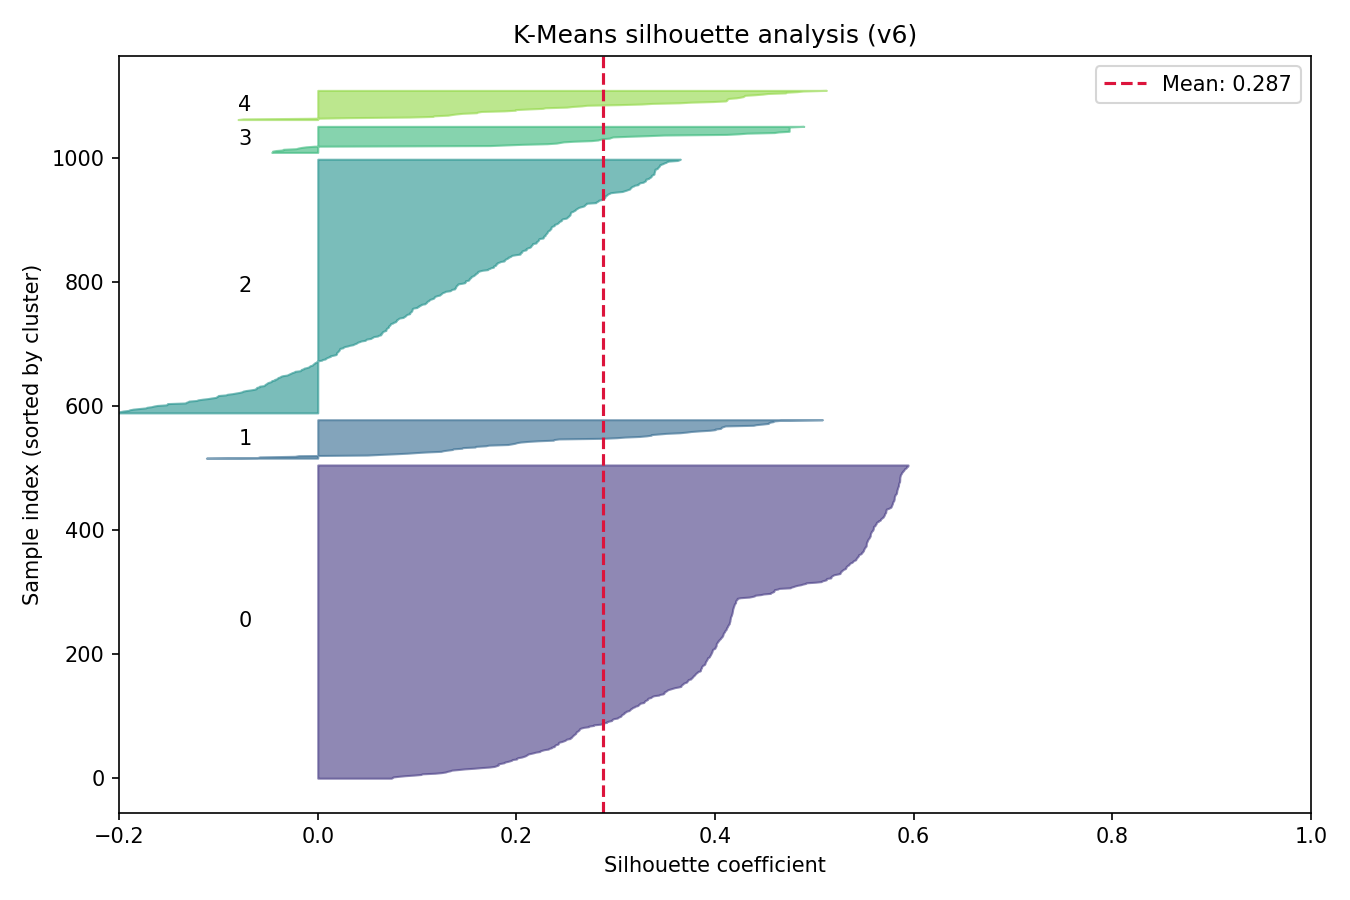
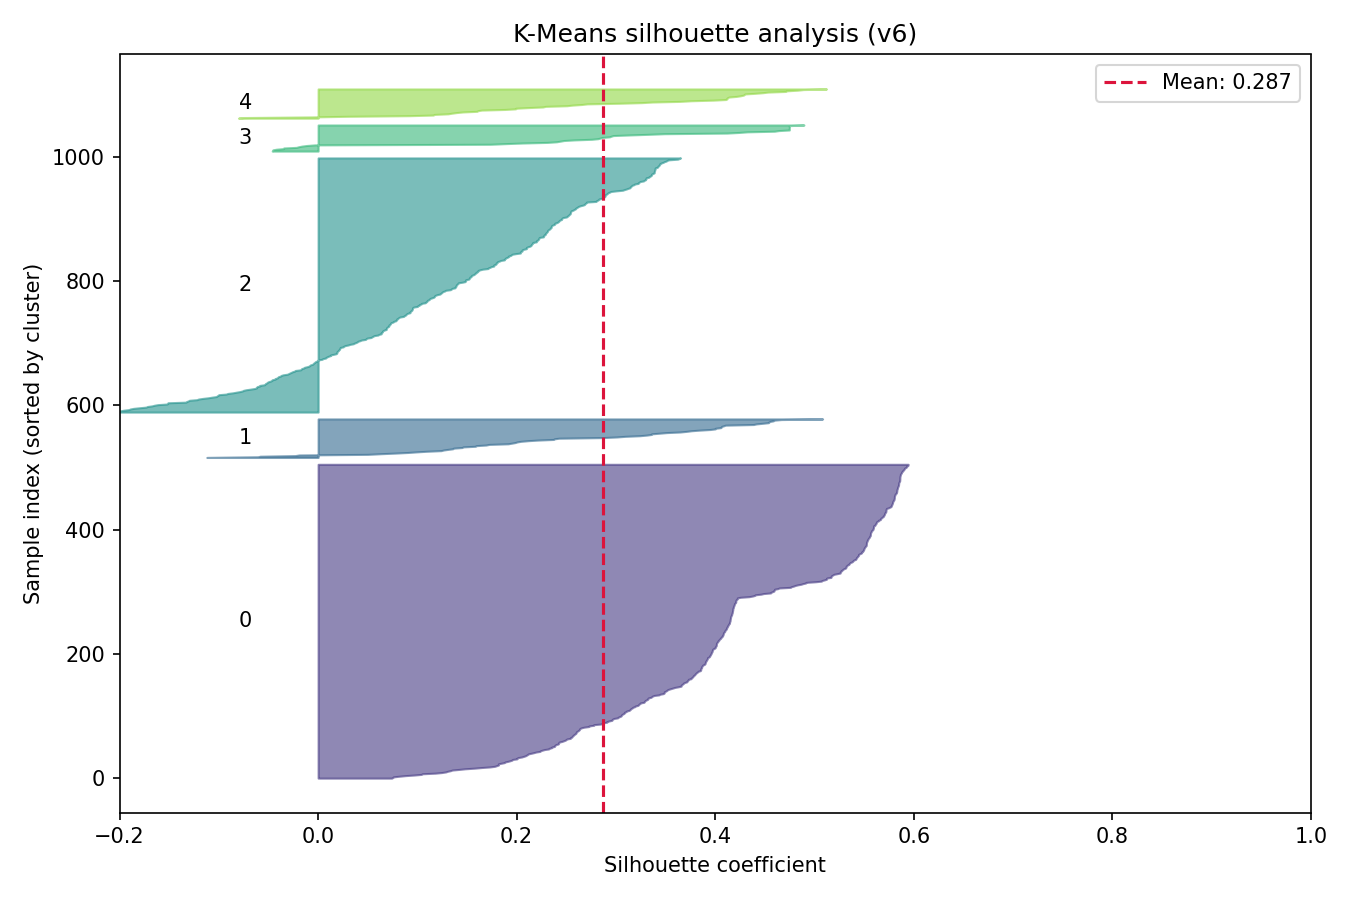
Running clustring tests 4 times

diff --git a/og_main.md b/og_main.md
@@ -28,7 +28,6 @@ KMEANS_CLUSTERS = 5
 DBSCAN_EPS = 0.55
 DBSCAN_MIN_SAMPLES = 10
 NOISE_INFO_THRESHOLD = 0.2
-N_RUNS = 4
 
 # Training features only (metadata excluded from StandardScaler).
 PROFILE_FEATURES = [
@@ -140,6 +139,46 @@ def _plot_feature_correlation(df: pd.DataFrame, cols: list[str], out_path: Path)
     plt.tight_layout()
     fig.savefig(out_path, dpi=150)
     logger.info("Saved correlation heatmap to %s", out_path)
+    if plt.get_backend().lower() != "agg":
+        plt.show()
+    else:
+        plt.close(fig)
+
+
+def _plot_kmeans_silhouette(X_scaled: pd.DataFrame, labels: np.ndarray, out_path: Path) -> None:
+    """Silhouette plot for K-Means (cluster stability visualization)."""
+    Xv = X_scaled.to_numpy()
+    sil_vals = silhouette_samples(Xv, labels)
+    n_clusters = len(np.unique(labels))
+    fig, ax = plt.subplots(figsize=(9, 6))
+    y_lower = 0
+    colors = sns.color_palette("viridis", n_clusters)
+    for i in range(n_clusters):
+        cluster_sil = sil_vals[labels == i]
+        cluster_sil.sort()
+        n_i = len(cluster_sil)
+        y_upper = y_lower + n_i
+        color = colors[i]
+        ax.fill_betweenx(
+            np.arange(y_lower, y_upper),
+            0,
+            cluster_sil,
+            facecolor=color,
+            edgecolor=color,
+            alpha=PLOT_ALPHA,
+        )
+        ax.text(-0.08, y_lower + 0.5 * n_i, str(i), va="center")
+        y_lower = y_upper + 10
+    mean_sil = float(silhouette_score(Xv, labels))
+    ax.axvline(x=mean_sil, color="crimson", linestyle="--", linewidth=1.5, label=f"Mean: {mean_sil:.3f}")
+    ax.set_xlabel("Silhouette coefficient")
+    ax.set_ylabel("Sample index (sorted by cluster)")
+    ax.set_title("K-Means silhouette analysis (v6)")
+    ax.set_xlim(-0.2, 1.0)
+    ax.legend(loc="upper right")
+    plt.tight_layout()
+    fig.savefig(out_path, dpi=150)
+    logger.info("Saved silhouette plot to %s", out_path)
     if plt.get_backend().lower() != "agg":
         plt.show()
     else:
@@ -288,117 +327,82 @@ def main() -> None:
 
     _plot_feature_correlation(student_df, PROFILE_FEATURES, plot_corr)
 
-    for run_idx in range(1, N_RUNS + 1):
-        logger.info("--- Run %d/%d ---", run_idx, N_RUNS)
+    logger.info("--- K-Means (k=%s) ---", KMEANS_CLUSTERS)
+    km = KMeans(n_clusters=KMEANS_CLUSTERS, random_state=42, n_init=10)
+    labels_km = km.fit_predict(X_scaled)
+    _log_kmeans_cluster_centers(km, scaler, FEATURES)
 
-        logger.info("--- K-Means (k=%s) ---", KMEANS_CLUSTERS)
-        km = KMeans(n_clusters=KMEANS_CLUSTERS, random_state=42, n_init=10)
-        labels_km = km.fit_predict(X_scaled)
-        _log_kmeans_cluster_centers(km, scaler, FEATURES)
+    _plot_kmeans_silhouette(X_scaled, labels_km, plot_sil)
 
-        km_sil, km_db = _metrics_scaled(
-            X_scaled,
-            labels_km,
-            f"K-Means (run {run_idx})",
-            exclude_noise=False,
-        )
+    km_sil, km_db = _metrics_scaled(X_scaled, labels_km, "K-Means", exclude_noise=False)
 
-        logger.info("--- DBSCAN (eps=%s, min_samples=%s) ---", DBSCAN_EPS, DBSCAN_MIN_SAMPLES)
-        dbs = DBSCAN(eps=DBSCAN_EPS, min_samples=DBSCAN_MIN_SAMPLES)
-        labels_db = dbs.fit_predict(X_scaled)
-        n_noise = int((labels_db == -1).sum())
-        noise_share = n_noise / len(labels_db)
+    logger.info("--- DBSCAN (eps=%s, min_samples=%s) ---", DBSCAN_EPS, DBSCAN_MIN_SAMPLES)
+    dbs = DBSCAN(eps=DBSCAN_EPS, min_samples=DBSCAN_MIN_SAMPLES)
+    labels_db = dbs.fit_predict(X_scaled)
+    n_noise = int((labels_db == -1).sum())
+    noise_share = n_noise / len(labels_db)
+    logger.info(
+        "DBSCAN: %d / %d points labeled noise (-1) (%.1f%%)",
+        n_noise,
+        len(labels_db),
+        100.0 * noise_share,
+    )
+    if noise_share >= NOISE_INFO_THRESHOLD:
         logger.info(
-            "DBSCAN: %d / %d points labeled noise (-1) (%.1f%%)",
-            n_noise,
-            len(labels_db),
-            100.0 * noise_share,
+            "DBSCAN: many points are noise — common for a first pass on scaled student-level data; "
+            "try tuning eps or min_samples if you want denser clusters."
         )
-        if noise_share >= NOISE_INFO_THRESHOLD:
-            logger.info(
-                "DBSCAN: many points are noise — common for a first pass on scaled student-level data; "
-                "try tuning eps or min_samples if you want denser clusters."
-            )
-        if len(np.unique(labels_db)) < 2 or (labels_db == -1).all():
-            logger.info("DBSCAN: skipped Silhouette / Davies–Bouldin (degenerate clustering)")
-            db_sil, db_db = None, None
-        else:
-            db_sil, db_db = _metrics_scaled(
-                X_scaled,
-                labels_db,
-                f"DBSCAN (run {run_idx})",
-                exclude_noise=True,
-            )
+    if len(np.unique(labels_db)) < 2 or (labels_db == -1).all():
+        logger.info("DBSCAN: skipped Silhouette / Davies–Bouldin (degenerate clustering)")
+        db_sil, db_db = None, None
+    else:
+        db_sil, db_db = _metrics_scaled(X_scaled, labels_db, "DBSCAN", exclude_noise=True)
 
-        run_metrics_path = metrics_dir / f"model_comparison_v6_run{run_idx}.txt"
-        _write_metrics_file(run_metrics_path, km_sil, km_db, db_sil, db_db)
-        if run_idx == N_RUNS:
-            _write_metrics_file(path_metrics, km_sil, km_db, db_sil, db_db)
+    _write_metrics_file(path_metrics, km_sil, km_db, db_sil, db_db)
 
-        _write_raw_data_summary_v6(
-            path_raw_summary,
-            student_df,
-            labels_km,
-            labels_db,
-            km_sil,
-            km_db,
-            db_sil,
-            db_db,
+    _write_raw_data_summary_v6(
+        path_raw_summary,
+        student_df,
+        labels_km,
+        labels_db,
+        km_sil,
+        km_db,
+        db_sil,
+        db_db,
+    )
+
+    results_df = student_df.copy()
+    results_df["KMeans_Cluster"] = labels_km
+    results_df["DBSCAN_Cluster"] = labels_db
+    results_df.to_parquet(path_clusters_v6, index=False)
+    logger.info("Saved clustering results (v6) to %s", path_clusters_v6)
+
+    profiles = (
+        results_df.groupby("KMeans_Cluster", as_index=False)
+        .agg(
+            n_students=("anon_student_id", "count"),
+            total_absence_percent=("total_absence_percent", "mean"),
+            invalid_ratio=("invalid_ratio", "mean"),
+            absent_subject_count=("absent_subject_count", "mean"),
         )
+        .sort_values("KMeans_Cluster")
+    )
+    profiles.to_parquet(path_profiles, index=False)
+    logger.info("Saved cluster profiles (v6) to %s", path_profiles)
 
-        results_df = student_df.copy()
-        results_df["KMeans_Cluster"] = labels_km
-        results_df["DBSCAN_Cluster"] = labels_db
+    plot_df = results_df.copy()
+    plot_df["kmeans_cluster"] = plot_df["KMeans_Cluster"]
 
-        run_clusters_path = processed_dir / f"student_clusters_v6_run{run_idx}.parquet"
-        results_df.to_parquet(run_clusters_path, index=False)
-        logger.info("Saved clustering results (run %d) to %s", run_idx, run_clusters_path)
-        if run_idx == N_RUNS:
-            results_df.to_parquet(path_clusters_v6, index=False)
-            logger.info("Saved clustering results (v6) to %s", path_clusters_v6)
-
-        profiles = (
-            results_df.groupby("KMeans_Cluster", as_index=False)
-            .agg(
-                n_students=("anon_student_id", "count"),
-                total_absence_percent=("total_absence_percent", "mean"),
-                invalid_ratio=("invalid_ratio", "mean"),
-                absent_subject_count=("absent_subject_count", "mean"),
-            )
-            .sort_values("KMeans_Cluster")
-        )
-        run_profiles_path = metrics_dir / f"cluster_profiles_v6_run{run_idx}.parquet"
-        profiles.to_parquet(run_profiles_path, index=False)
-        logger.info("Saved cluster profiles (run %d) to %s", run_idx, run_profiles_path)
-        if run_idx == N_RUNS:
-            profiles.to_parquet(path_profiles, index=False)
-            logger.info("Saved cluster profiles (v6) to %s", path_profiles)
-
-        plot_df = results_df.copy()
-        plot_df["kmeans_cluster"] = plot_df["KMeans_Cluster"]
-
-        run_plot_subject = plots_dir / f"subject_spread_v6_run{run_idx}.png"
-        _save_scatter(
-            plot_df,
-            hue_col="kmeans_cluster",
-            title=f"Total absence % vs absent subject count (K-Means, v6, run {run_idx})",
-            out_path=run_plot_subject,
-            x="total_absence_percent",
-            y="absent_subject_count",
-            xlabel="Total absence %",
-            ylabel="Absent subject count",
-        )
-        if run_idx == N_RUNS:
-            _save_scatter(
-                plot_df,
-                hue_col="kmeans_cluster",
-                title="Total absence % vs absent subject count (K-Means, v6)",
-                out_path=plot_subject,
-                x="total_absence_percent",
-                y="absent_subject_count",
-                xlabel="Total absence %",
-                ylabel="Absent subject count",
-            )
+    _save_scatter(
+        plot_df,
+        hue_col="kmeans_cluster",
+        title="Total absence % vs absent subject count (K-Means, v6)",
+        out_path=plot_subject,
+        x="total_absence_percent",
+        y="absent_subject_count",
+        xlabel="Total absence %",
+        ylabel="Absent subject count",
+    )
 
 
 if __name__ == "__main__":

diff --git a/README.md b/README.md
@@ -43,3 +43,4 @@ Use the quick inspection script to get a first overview of the dataset:
 ```bash
 python scripts/inspect_parquet.py
 ```
+
